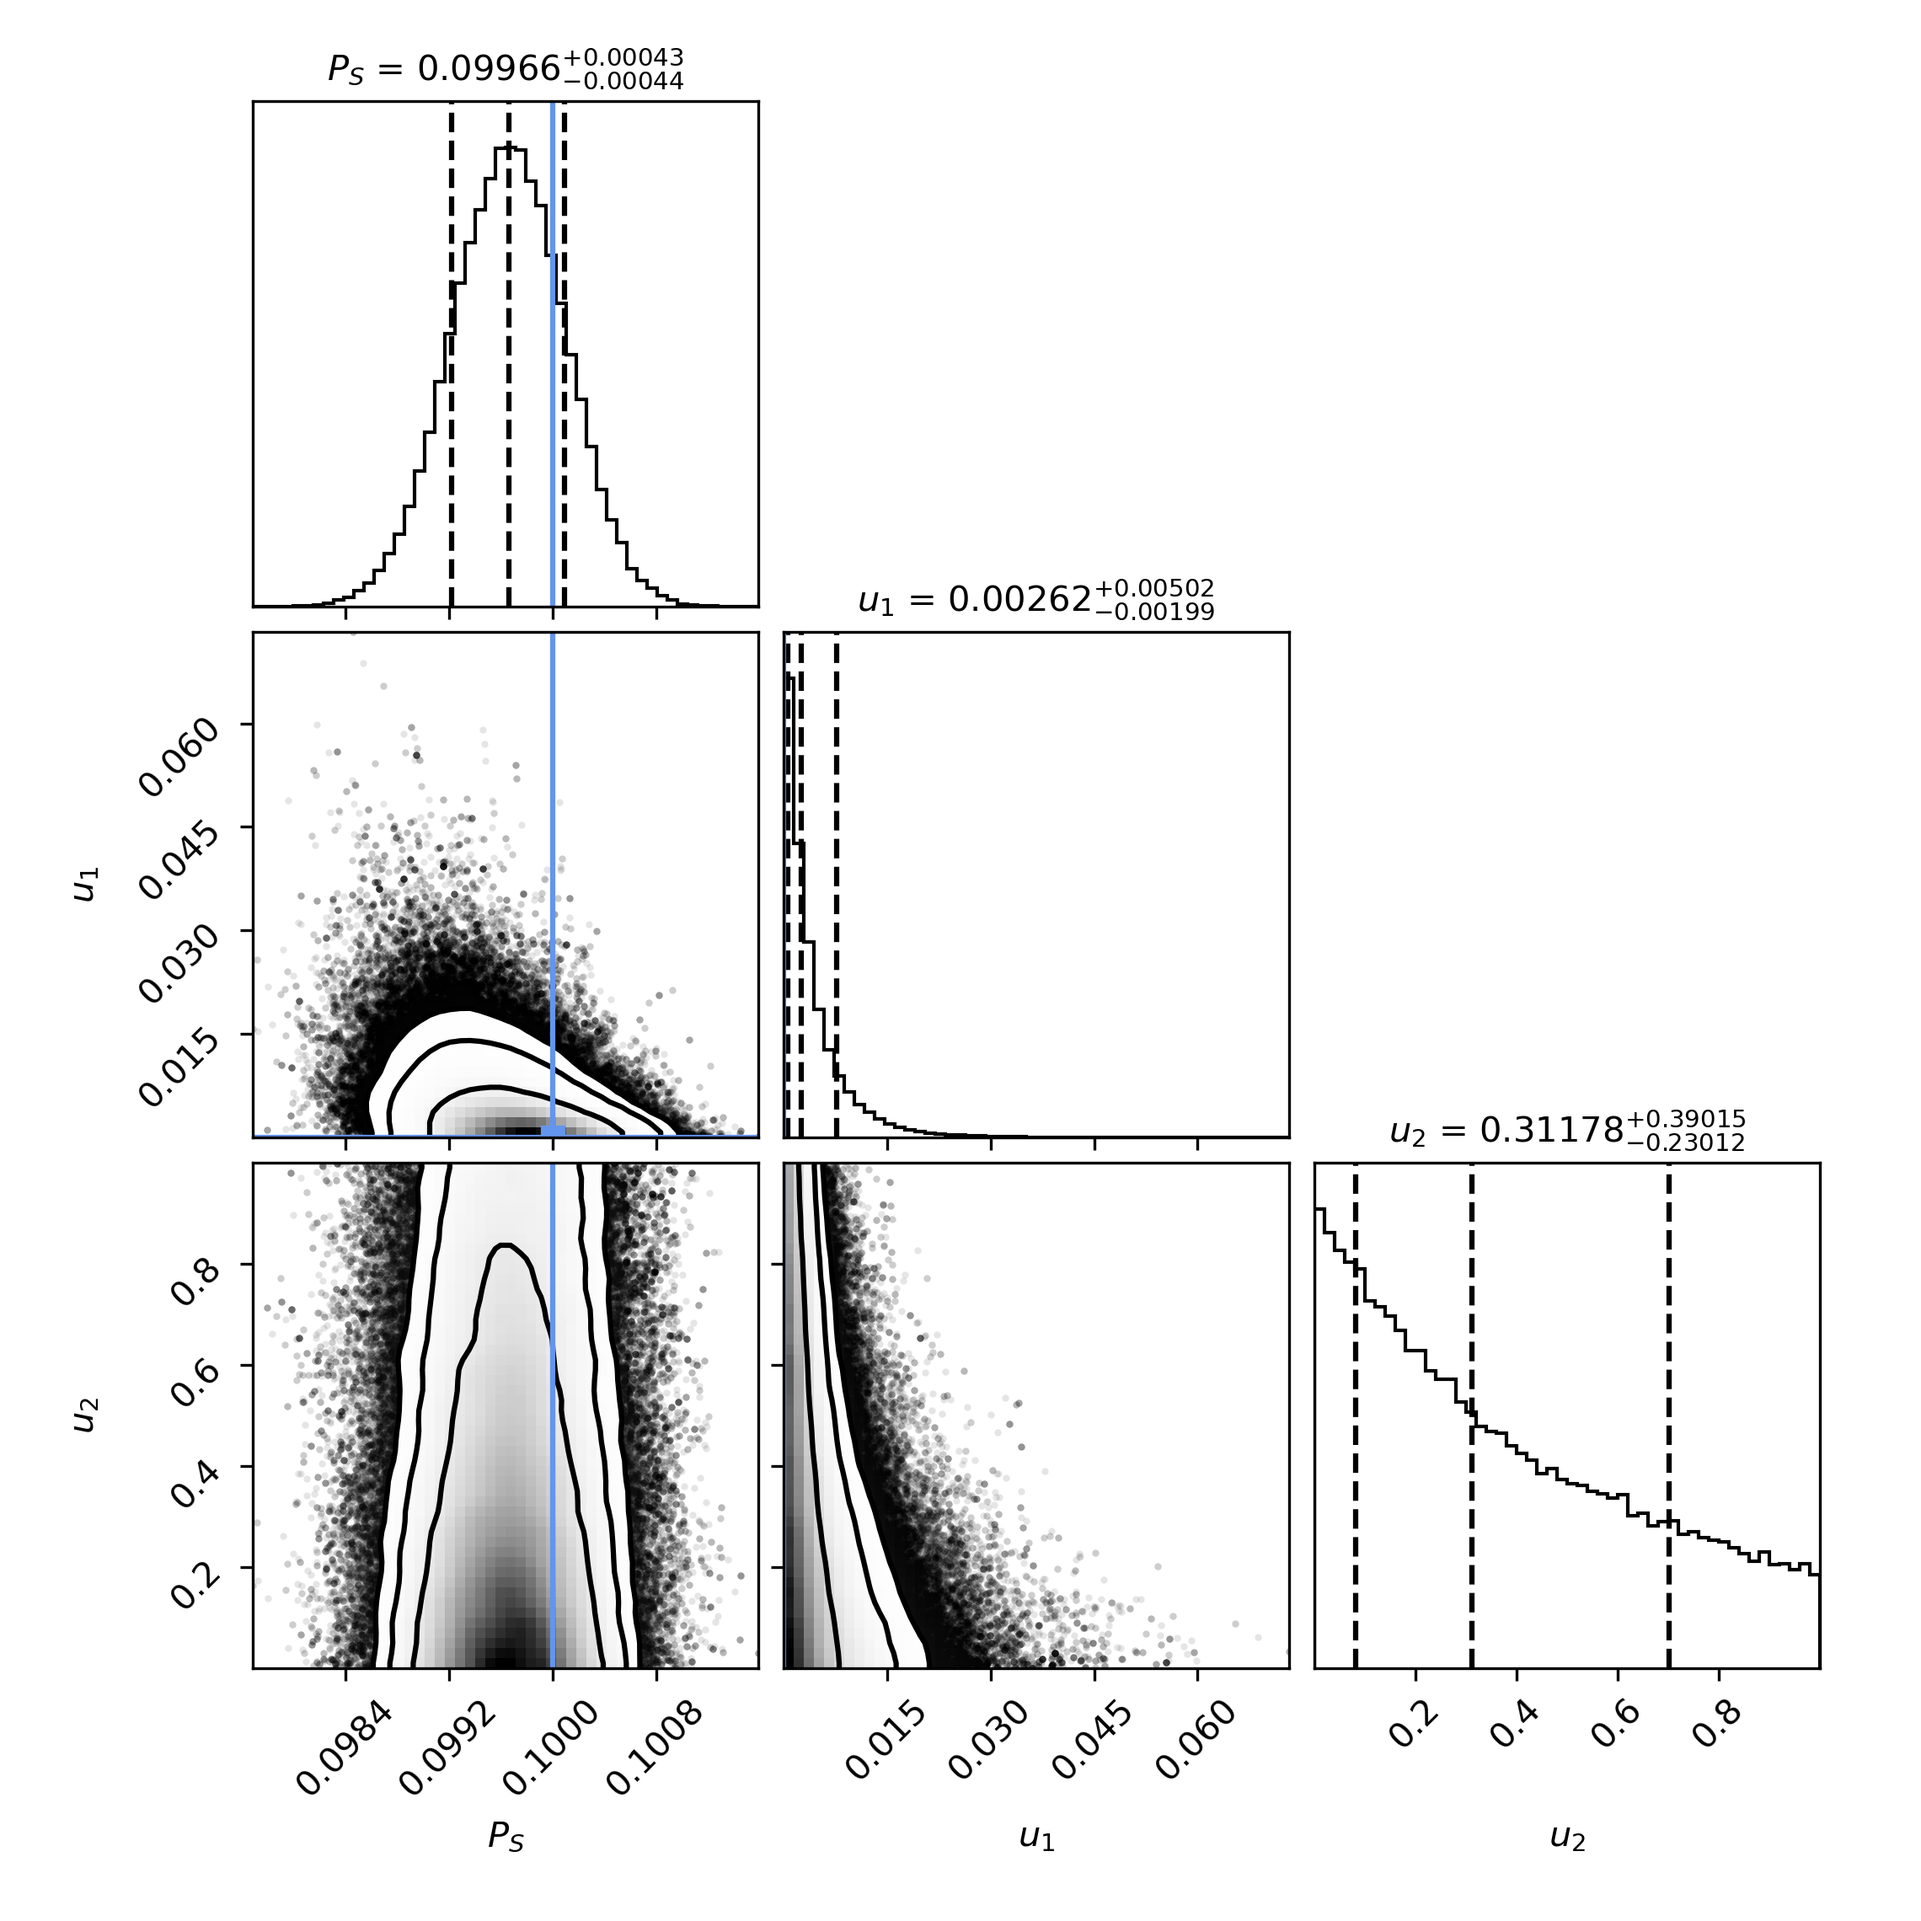
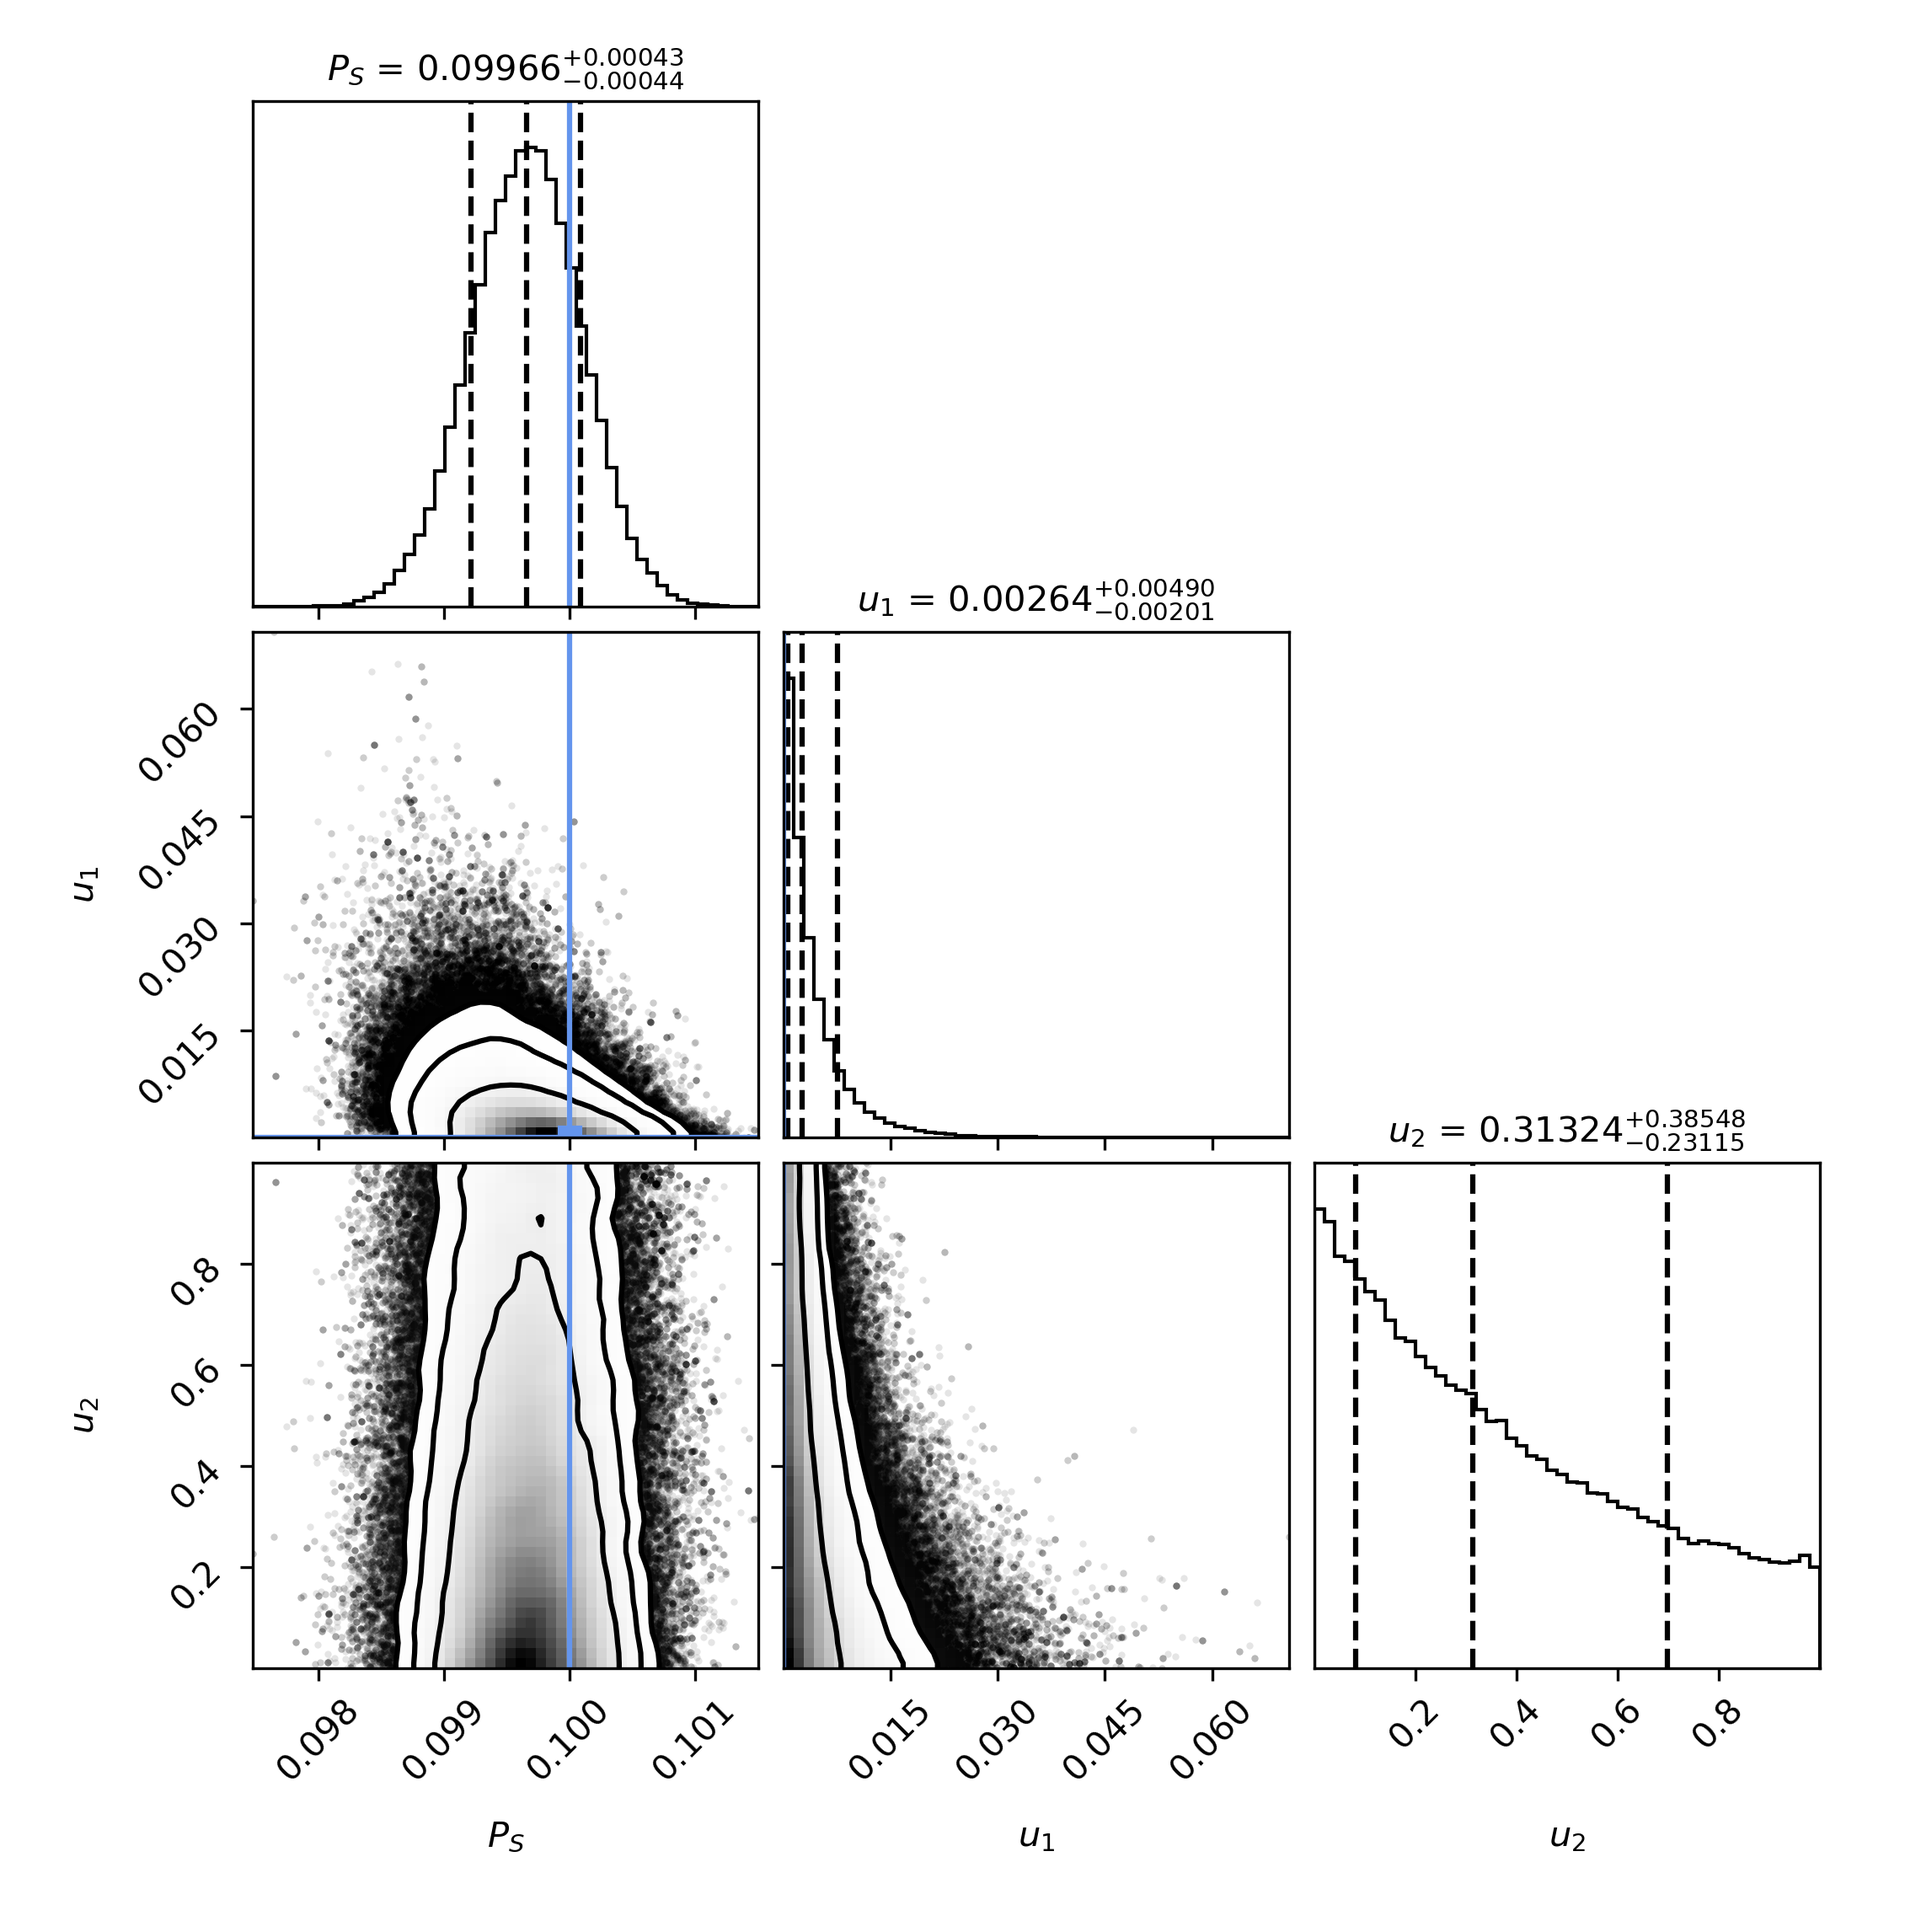
improved kipping transformation and added more intermediate values for error envelopes (reason: strange behaviour when trying a low limb-darkening version)

diff --git a/analysis.py b/analysis.py
@@ -65,7 +65,9 @@ time_data = t_array                                     # Time array for the sim
 all_errors_dict = {
     "1 ppm":    (1    / 1e6) * flux_data,       # error envelope for 1 ppm
     "10 ppm":   (10   / 1e6) * flux_data,       # error envelope for 10 ppm
+    "30 ppm":   (30   / 1e6) * flux_data,       # error envelope for 10 ppm
     "100 ppm":  (100  / 1e6) * flux_data,       # error envelope for 100 ppm, 
+    "300 ppm":  (300  / 1e6) * flux_data,       # error envelope for 10 ppm
     "1000 ppm": (1000 / 1e6) * flux_data,       # error envelope for 1000 ppm
     }  
 
@@ -107,7 +109,7 @@ param_priors = {
     }
 
 # MCMC parameters
-# TODO: just a working selection right now, could probably be improved
+# TODO:right now these are what they use in the paper, could probably be improved... takes a couple minutes to run 100k steps
 mcmc_params = {
     'ndim'        :len(param_priors),
     'nwalkers'    :4*len(param_priors),
@@ -134,27 +136,29 @@ for key in all_errors_dict:
 ################################################################################
 
 # update priors and ground truth to Kipping
-param_priors = {
+param_priors_kip = {
     # TODO: adapt these depending on simdata
-    'ps':        ['uni', 0., 0.5],      # stellar radii
+    'ps':        ['uni', 0., 0.5],    # stellar radii
     'u1':        ['uni', 0., 1.],     # limb darkening
     'u2':        ['uni', 0., 1.],     # limb darkening
 }
-truths = {
+truths_kip = {
     'ps':0.1,                        # planet-to-star radius ratio = planet radius (in units of stellar radii)
-    'u':[0, None]                    # limb-darkening coefficients: q1, q2 (no limb-darkening = [0, ?])
-    # TODO: q2 is not actually well defined... need to calculate the limes of 0.5 * u1 / (u1 + u2) for u1 & u2 -> 0, i guess it's 0.25?
-    # 
+    'u':quad_to_kipping(truths['u'][0], 
+                        truths['u'][1])   # limb-darkening coefficients: q1, q2 (transformed from initial quadratic values)
+    # TODO: q2 is not actually well defined... need to calculate the limes of 0.5 * u1 / (u1 + u2) for u1 & u2 -> 0 
+    # but the results diverge depending which parameter you let go to 0 first...
+    # For now this is handled in quad_to_kipping by setting q2=None
 }
 
 for key in all_errors_dict:
     # iterate through all available error envelopes for the kipping parameterization
-    posterior_samples = run_mcmc(time_data, flux_data, all_errors_dict[key], model,
-                                params, param_priors, mcmc_params,
-                                transform=True)
+    posterior_samples_kip = run_mcmc(time_data, flux_data, all_errors_dict[key], model,
+                                    params, param_priors_kip, mcmc_params,
+                                    transform=True)
 
     # Plot the corner plot
-    create_corner_plot(posterior_samples, truths, all_errors_dict[key][0]*1e6, transform=True)
+    create_corner_plot(posterior_samples_kip, truths_kip, all_errors_dict[key][0]*1e6, transform=True)
 
 #%%
 

diff --git a/model_functions.py b/model_functions.py
@@ -21,7 +21,13 @@ def quad_to_kipping(u1, u2):
     Parameter spaces for q are [0, 1] but for u it's [-3, 3]
     """
     q1 = (u1 + u2)**2
-    q2 = 0.5 * u1 / (u1 + u2)
+
+    # the case where u1 and u2 are 0 is handled here 
+    # (only comes up when converting between the truth dict as it's never exactly 0 otherwise)
+    try:
+        q2 = 0.5 * u1 / (u1 + u2)
+    except:
+        q2 = None
     return q1, q2
 
 
